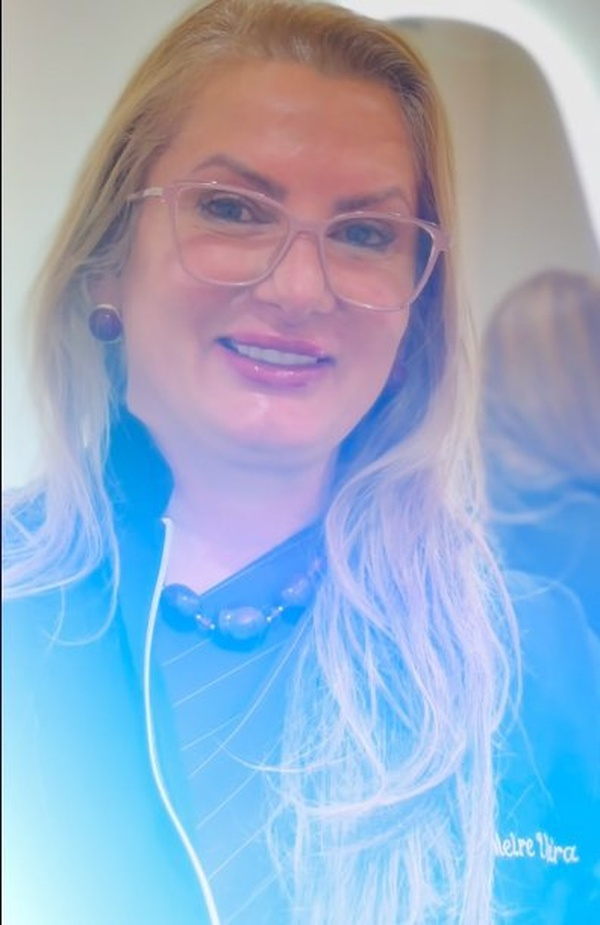
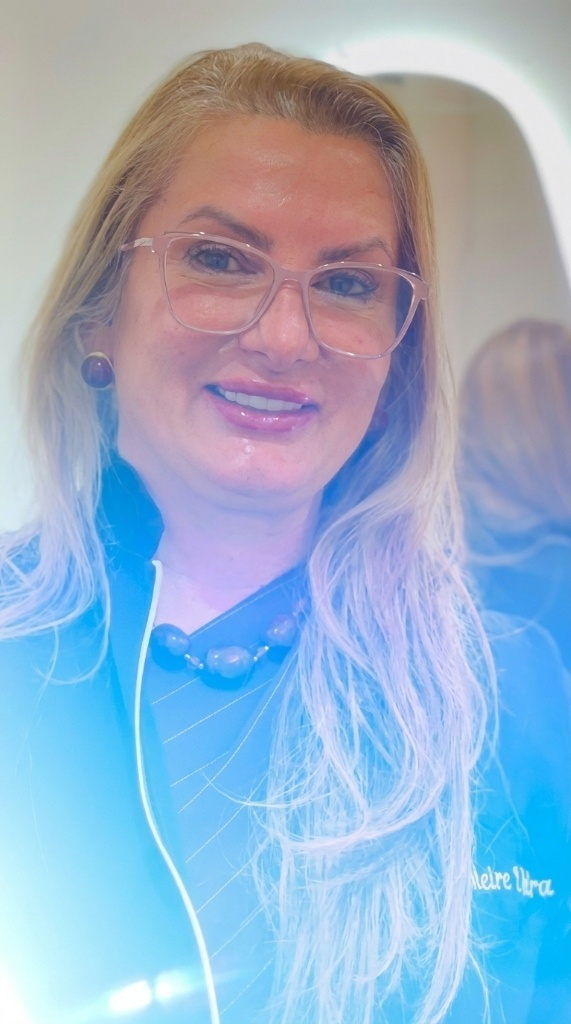
feat(previa): atualizar fotos da Dra. Meire Vieira com alta resolucao e enquadramento otimizado

diff --git a/previas/dra-meire-vieira/index.html b/previas/dra-meire-vieira/index.html
@@ -13,7 +13,7 @@
   <meta property="og:description" content="Mais de 18 anos transformando vidas com protocolos personalizados de rejuvenescimento e emagrecimento. Agende sua avaliação exclusiva." />
   <meta property="og:type" content="website" />
   <meta property="og:locale" content="pt_BR" />
-  <meta property="og:image" content="images/portrait-01.jpg" />
+  <meta property="og:image" content="images/portrait-01.jpg?v=2" />
   
   <link rel="shortcut icon" href="favicon.svg" />
   <link rel="icon" href="favicon.svg" />
@@ -69,10 +69,13 @@
     }
 
     /* Imagem do Hero e Sobre Mim */
-    .hero-portrait img,
-    .statement-image img {
+    .hero-portrait img {
       object-fit: cover;
       object-position: center 20%;
+    }
+    .statement-image img {
+      object-fit: cover;
+      object-position: center 32%;
     }
 
     /* Selo de Credencial MV */
@@ -251,7 +254,7 @@
       <div class="hero-photo-wrap">
         <div class="hero-portrait">
           <img
-            src="images/portrait-01.jpg"
+            src="images/portrait-01.jpg?v=2"
             alt="Dra. Meire Vieira — Fisioterapeuta Dermatofuncional em Mogi das Cruzes"
             width="600"
             height="925"
@@ -291,7 +294,7 @@
       
       <div class="statement-image">
         <img
-          src="images/portrait-02.jpg"
+          src="images/portrait-02.jpg?v=2"
           alt="Dra. Meire Vieira realizando atendimento estético avançado"
           loading="lazy"
           decoding="async"
